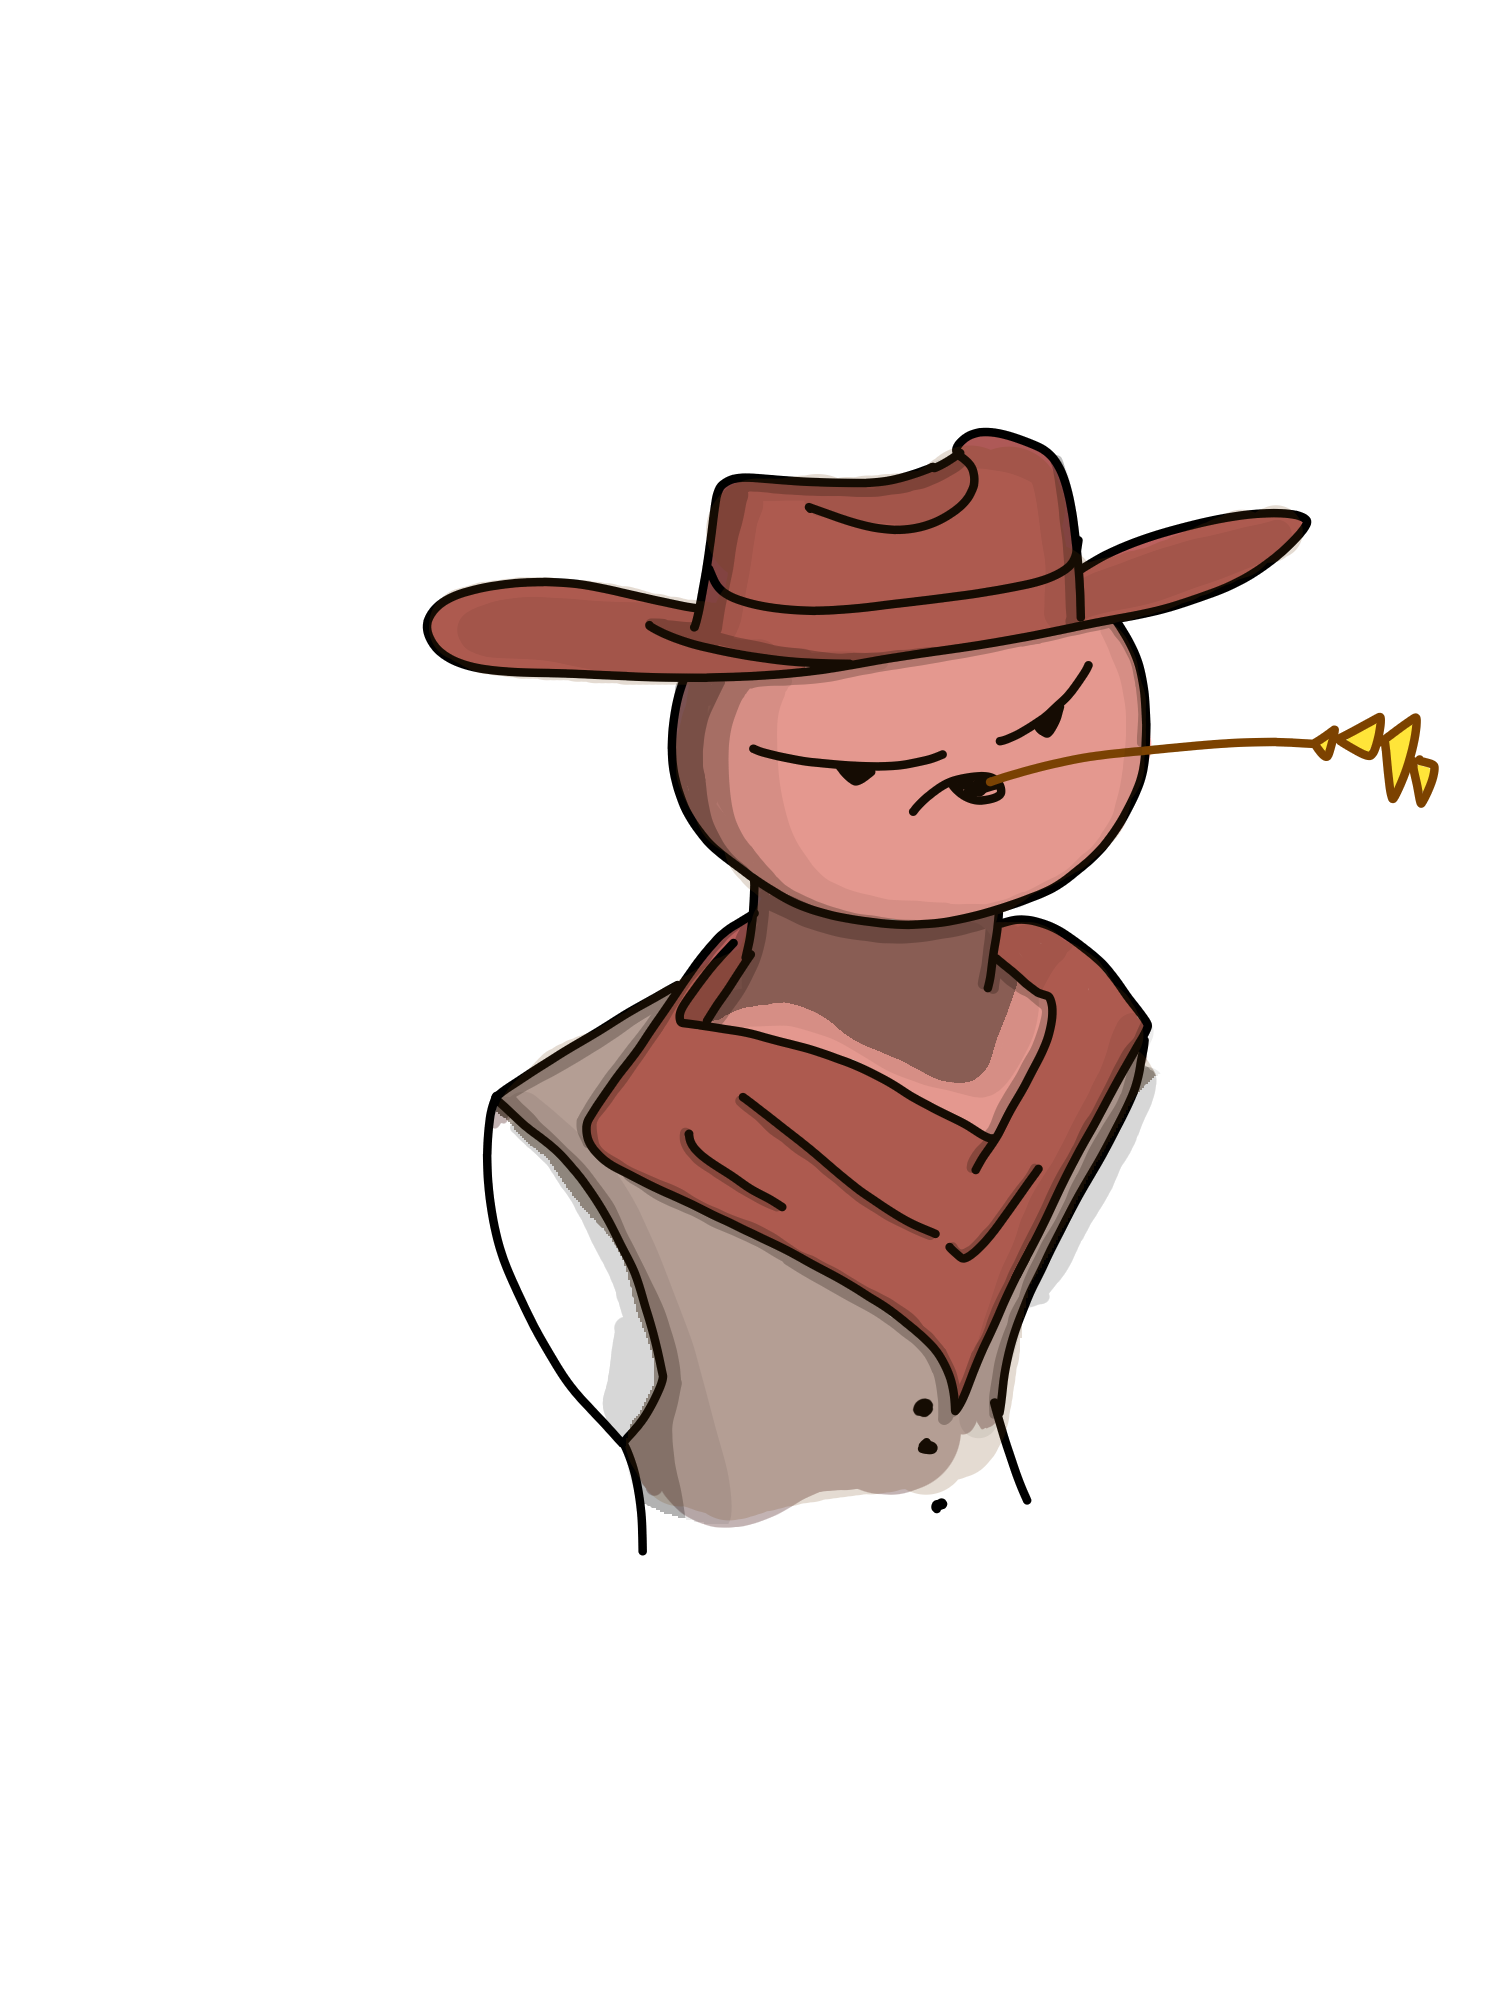
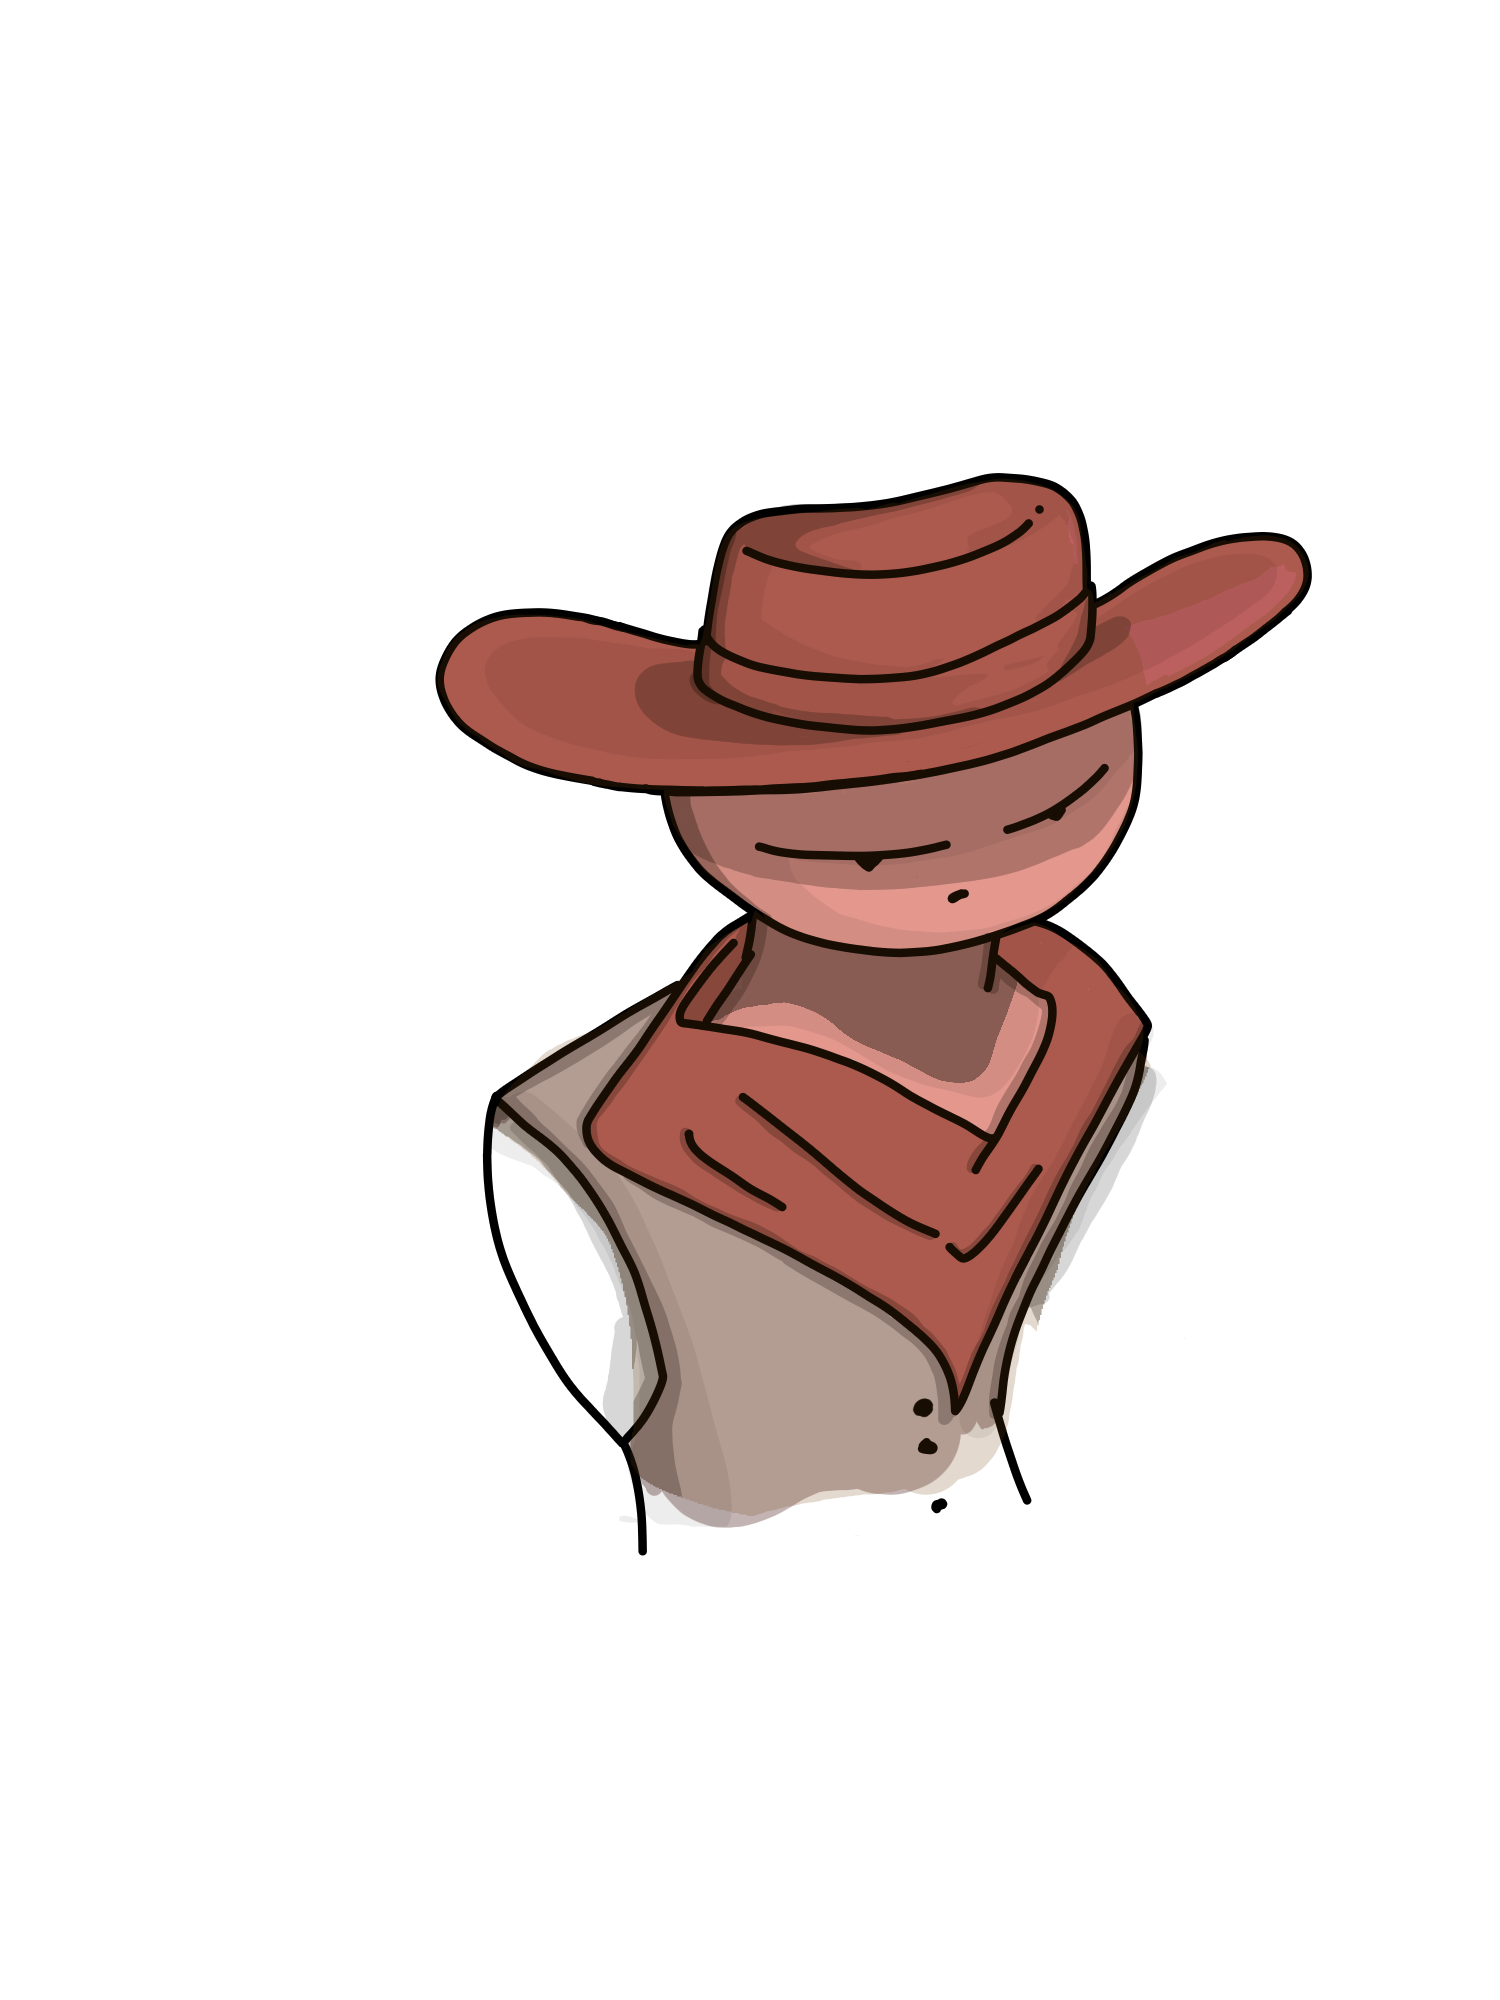
ready cards, ready position, fix frame and bullets stay after game, disconect redirect + error message, block shot, look down on cards

diff --git a/src/components/models/Player.jsx b/src/components/models/Player.jsx
@@ -22,7 +22,9 @@ export const PLAYER = {
   dead: 10,
   disconnected: 11,
   shootLeft: 12,
-  shootRight: 13
+  shootRight: 13,
+  cardsOnTable: 14,
+  blockShot: 15,
 };
 
 
@@ -46,10 +48,10 @@ export default function Player({pId, position, onClick, name, targetState, right
   const disconnected = useRef(false);
 
   const textureLocation = '/images/cowboy/';
-  const defaultTexture = useLoader(THREE.TextureLoader, textureLocation + 'cowboy_cards.png');
+  const defaultTexture = useLoader(THREE.TextureLoader, textureLocation + 'cowboy_no_hands.png');
 
   const variants = [
-    {main: defaultTexture, top: useLoader(THREE.TextureLoader, textureLocation + 'cowboy_cards_hand.png')},
+    {main: useLoader(THREE.TextureLoader, textureLocation + 'cowboy_cards.png'), top: useLoader(THREE.TextureLoader, textureLocation + 'cowboy_cards_hand.png')},
     {main: defaultTexture, top: useLoader(THREE.TextureLoader, textureLocation + 'cowboy_play_card_hand.png')},
     {main: defaultTexture, top: useLoader(THREE.TextureLoader, textureLocation + 'cowboy_ammo_hand.png')},
     {main: useLoader(THREE.TextureLoader, textureLocation + 'cowboy_block.png'), top: undefined},
@@ -63,6 +65,8 @@ export default function Player({pId, position, onClick, name, targetState, right
     {main: useLoader(THREE.TextureLoader, textureLocation + 'cowboy_disconnected.png'), top: undefined},
     {main: useLoader(THREE.TextureLoader, textureLocation + 'cowboy_shoot_left.png'), top: useLoader(THREE.TextureLoader, textureLocation + 'cowboy_shoot_left_hand.png')},
     {main: useLoader(THREE.TextureLoader, textureLocation + 'cowboy_shoot_right.png'), top: useLoader(THREE.TextureLoader, textureLocation + 'cowboy_shoot_right_hand.png')},
+    {main: useLoader(THREE.TextureLoader, textureLocation + 'cowboy_cards_table.png'), top: useLoader(THREE.TextureLoader, textureLocation + 'cowboy_cards_table_hand.png')},
+    {main: useLoader(THREE.TextureLoader, textureLocation + 'cowboy_block_shot.png'), top: undefined},
   ]
 
   const sounds = [
@@ -95,7 +99,7 @@ export default function Player({pId, position, onClick, name, targetState, right
       if(newVal === 0){
         setPlayerState(PLAYER.dead);
       }
-    },1000)
+    }, 1000)
   }
 
   const planeRef = useRef();
@@ -126,15 +130,15 @@ export default function Player({pId, position, onClick, name, targetState, right
       setPlayerState(PLAYER.disconnected)
     }
     if(data?.type === "player-ready" && data?.player === pId){
-      setHealth(MAX_HEALTH);
-      setPlayerState(PLAYER.cards);
+      healthRef.current = MAX_HEALTH;
+      _setHealth(MAX_HEALTH);
+      setPlayerState(PLAYER.cardsOnTable);
       refreshLookAt();
       disconnected.current = false;
     }
     if(disconnected.current) return;
     else if(data?.type === "start-countdown"){
-      setHealth(MAX_HEALTH);
-      setPlayerState(PLAYER.cards);
+      setPlayerState(PLAYER.cardsOnTable);
       refreshLookAt();
     }
     if(health <= 0) return;
@@ -200,6 +204,11 @@ export default function Player({pId, position, onClick, name, targetState, right
               setHealth(0);
               dead = true;
               break;
+            case "shoot-block":
+              setTimeout(() => {
+                setPlayerState(PLAYER.blockShot);
+              }, 1000);
+              break;
             default:
               break;
           }
@@ -251,7 +260,7 @@ export default function Player({pId, position, onClick, name, targetState, right
       <Text position={[0.3,1.7,0.1]} color="white" anchorX="center" anchorY="middle" fontSize={0.2} material={new THREE.MeshBasicMaterial({toneMapped: false, fog: false})}>
         {name}
       </Text>
-      {health > 0 && playerState != PLAYER.idle && <TargetFrame position={[0.4,0,0.3]} targetState={targetState}/>}
+      <TargetFrame position={[0.4,0,0.3]} targetState={targetState} visible={health > 0 && playerState != PLAYER.idle}/>
     
       <HealthDisplay />
       </mesh>

diff --git a/src/utilComponents/WebsocketProvider.jsx b/src/utilComponents/WebsocketProvider.jsx
@@ -1,6 +1,9 @@
-import { createContext, useRef, useState } from "react"
+import { createContext, useEffect, useRef, useState } from "react"
 import { wssAddress } from "../config"
 import useStateWithQueue from "../utils/useStateWithQueue";
+import { useNavigate } from "react-router-dom";
+import { BackButton } from "../components/BackButton";
+import { Button } from "../components/Button";
 
 export const WebsocketContext = createContext({
   isOpen: false,
@@ -11,10 +14,17 @@ export const WebsocketContext = createContext({
 });
 
 export const WebsocketProvider = ({ children }) => {
-  const [isOpen, setIsOpen] = useState(false)
+  const isOpenRef = useRef(false);
+  const [isOpen, _setIsOpen] = useState(isOpenRef.current)
   const [data, setData] = useStateWithQueue(null)
+  const [error, setError] = useState('')
 
-  const ws = useRef(null)
+  const setIsOpen = (value) => {
+    isOpenRef.current = value;
+    _setIsOpen(value);
+  }
+
+  const ws = useRef(null) 
 
   const setOpen = () => {
     
@@ -27,6 +37,8 @@ export const WebsocketProvider = ({ children }) => {
     waitingMessagesForConnection.length = 0; //delete sent messages
   }
 
+  const navigate = useNavigate()
+
   const open = () => {
 
     if(isOpen) return;
@@ -38,8 +50,11 @@ export const WebsocketProvider = ({ children }) => {
         setOpen()
     }
     socket.onclose = () => {
-        console.log("closed")
-        setIsOpen(false)
+        console.log("closed");
+        
+        if(isOpenRef.current) setError('disconnected');;
+        setIsOpen(false);
+        navigate('/');
     }
     socket.onmessage = (event) => {
         console.log("recieved: ",event.data)
@@ -57,8 +72,9 @@ export const WebsocketProvider = ({ children }) => {
   }
 
   const close = () => {
-    if(!isOpen) return;
+    if(!isOpenRef.current) return;
 
+    setIsOpen(false);
     ws.current?.close();
   }
 
@@ -80,6 +96,12 @@ export const WebsocketProvider = ({ children }) => {
   return (
     <WebsocketContext.Provider value={{exists, isOpen, data, send, open, close}}>
       {children}
+      {error && <div style={{position: 'absolute', backgroundColor: '#FF0000AA', top: '50%', left: '50%', transform: 'translate(-50%,-50%)', textAlign: 'left'}}>
+        <Button style={{position: 'absolute', fontSize: '0.8em', top: '0.6em'}} onClick={() => setError('')}>X</Button>
+        <div style={{padding: '0.5em', paddingInline: '1.5em'}}>
+          {error}
+        </div>
+      </div>}
     </WebsocketContext.Provider>
   )
 }

diff --git a/src/components/GameCanvas.jsx b/src/components/GameCanvas.jsx
@@ -14,6 +14,7 @@ import MainCamera from './models/MainCamera';
 import ReadyText from './models/ReadyText';
 import { Radio } from './models/Radio';
 import Ambiance from './Ambiance';
+import { Cardpack } from './models/Cardpack';
 
 const EmptyLazy = lazy(() => import("../utilComponents/EmptyLazy"))
 
@@ -29,6 +30,8 @@ const GameCanvas = ({chooseTarget, choosing, target, cardOptions, sendChoice, ga
   const { thisPID } = useContext(RoomContext);
 
   const [playingPlayers, setPlayingPlayers] = useState([]);
+  const [readyCount, setReadyCount] = useState(0);
+
   const enemies = useRef([]);
 
   const [chosen, setChosen] = useState();
@@ -85,8 +88,12 @@ const GameCanvas = ({chooseTarget, choosing, target, cardOptions, sendChoice, ga
       setPlayingPlayers(data?.players);
     }
     else if(data?.type === "load-game"){
+      setReadyCount(0);
       setPlayingPlayers(data?.players);
       setIsReady(false);
+    }
+    else if (data?.type === "player-ready" && data?.readycount !== undefined){
+      setReadyCount(data?.readycount)
     }
   }, [data])
 
@@ -135,6 +142,7 @@ const GameCanvas = ({chooseTarget, choosing, target, cardOptions, sendChoice, ga
       document.body.style.cursor = 'auto';
     }}>Ready</ReadyText>}
     <Room rotation={[0, 3, 0]} position={[2.8, 0, 2]}/>
+    {playingPlayers.filter((_val, index) => index >= readyCount).map((_val, index) => <Cardpack position={[0, 2.77 + index*0.07, 0]} rotation={[0,index*15,0]}/>)}
     <pointLight position={[0,5.5,0]} intensity={30} color={0xf79707}/>
     <pointLight position={[-1.4, 4.266, -5.225]} intensity={0.8} color={0xffffff}/>
     <pointLight position={[8,4.5,-3]} intensity={3} color={0xfebbbb}/>

diff --git a/src/pages/GamePage.jsx b/src/pages/GamePage.jsx
@@ -140,7 +140,7 @@ const GamePage = () => {
     return <div>
         <div className="canvas-container">
             <WaitToLoad/>
-            <LazyGameCanvas chooseTarget={chooseTarget} choosing={choice === "shoot"} target={target} cardOptions={options} sendChoice={sendChoice} gameState={gameState} OnLoaded={OnLoaded}/>
+            <LazyGameCanvas chooseTarget={chooseTarget} choosing={gameState === "choose" && choice === "shoot"} target={target} cardOptions={options} sendChoice={sendChoice} gameState={gameState} OnLoaded={OnLoaded}/>
             <LazyPOVCanvas/>
             <div className="full-screen" style={{position: "absolute", display: 'flex', flexDirection: "column", justifyContent: "end", pointerEvents: "none"}}>
                 <div style={{width: '1.5vw', height: '40vh', alignSelf: 'end', marginRight: '1vw'}}>

diff --git a/src/components/models/TargetFrame.jsx b/src/components/models/TargetFrame.jsx
@@ -8,7 +8,7 @@ export const TARGET = {
   none: 3,
 }
 
-export const TargetFrame = ({position, targetState}) => {
+export const TargetFrame = ({position, targetState, visible}) => {
 
   const texture = useLoader(THREE.TextureLoader, targetState === TARGET.chosen ? '/images/frame/frame_target.png' : '/images/frame/frame.png');
   // Adjust texture filtering for a pixelated look
@@ -16,7 +16,7 @@ export const TargetFrame = ({position, targetState}) => {
   texture.minFilter = THREE.NearestFilter;
   texture.generateMipmaps = false;
 
-  return <sprite position={position} scale={2} visible={targetState !== TARGET.none} renderOrder={2}>
+  return <sprite position={position} scale={2} visible={visible && targetState !== TARGET.none} renderOrder={2}>
   <spriteMaterial
       attach="material"
       map={texture}

diff --git a/src/components/models/Cardpack.jsx b/src/components/models/Cardpack.jsx
@@ -1,0 +1,18 @@
+/*
+Auto-generated by: https://github.com/pmndrs/gltfjsx
+Command: npx gltfjsx@6.5.0 cardpack.gltf 
+*/
+
+import React from 'react'
+import { useGLTF } from '@react-three/drei'
+
+export function Cardpack(props) {
+  const { nodes, materials } = useGLTF('/models/cardpack/cardpack.gltf')
+  return (
+    <group {...props} dispose={null}>
+      <mesh geometry={nodes.room001.geometry} material={materials['Material.010']} scale={8} />
+    </group>
+  )
+}
+
+useGLTF.preload('/cardpack.gltf')

diff --git a/src/pages/LobbyPage.jsx b/src/pages/LobbyPage.jsx
@@ -17,7 +17,7 @@ const LobbyPage = () => {
 
     useEffect(() => {
         if (data?.type === "load-game"){
-            navigate(`/game/play`);
+            setOpacityThenCall(0 , () => navigate(`/game/play`));
         }
     }, [data])
 
